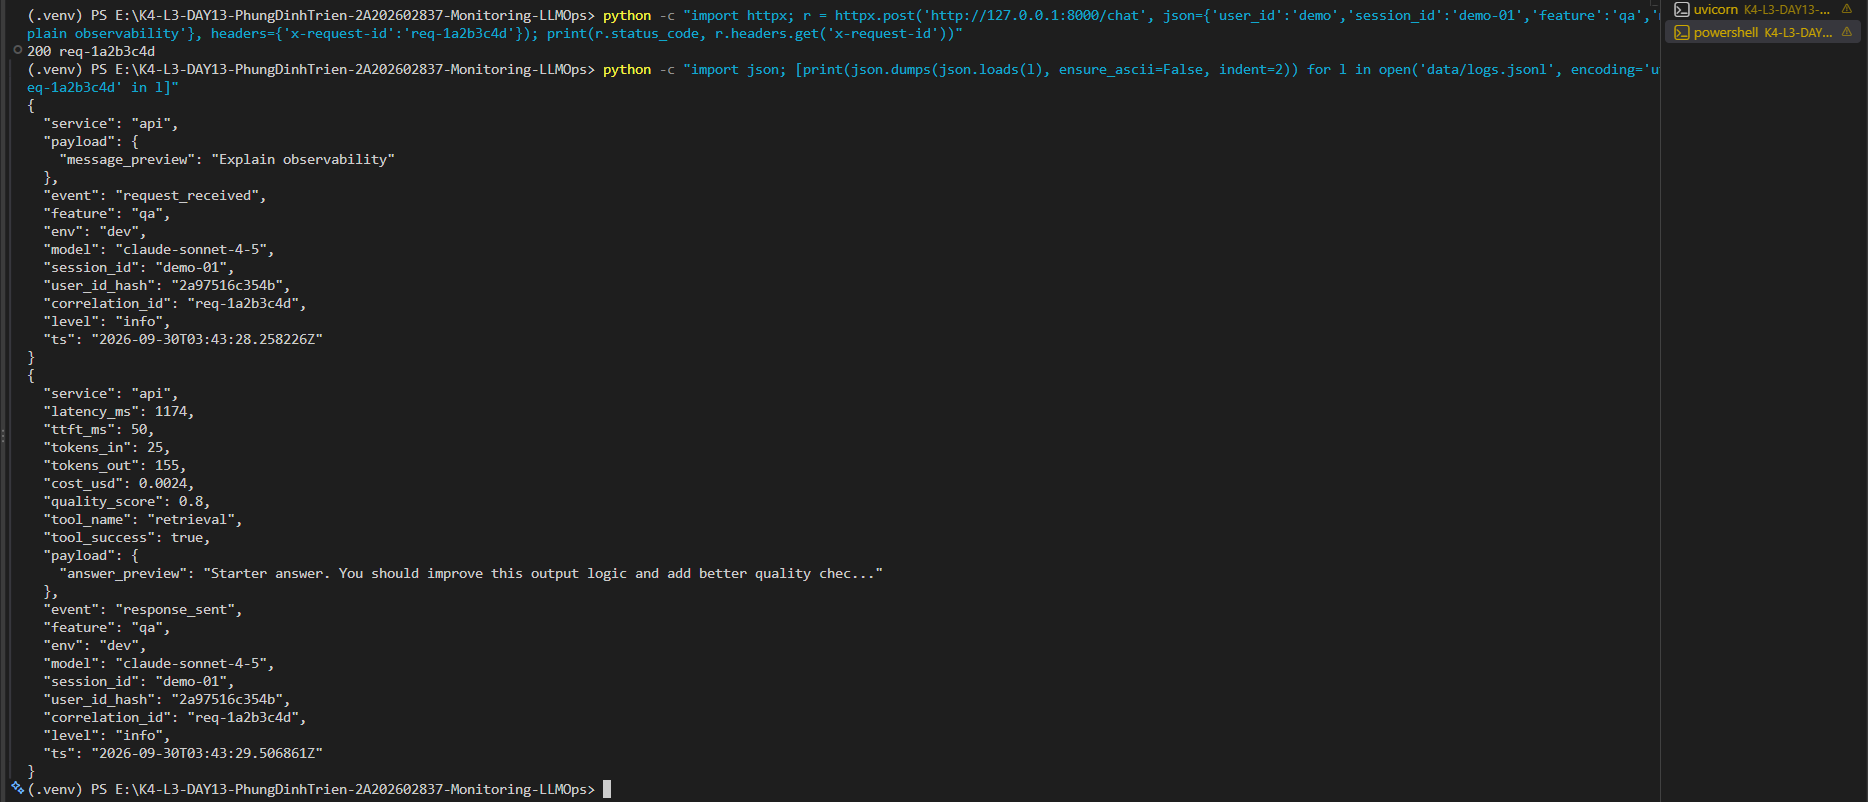
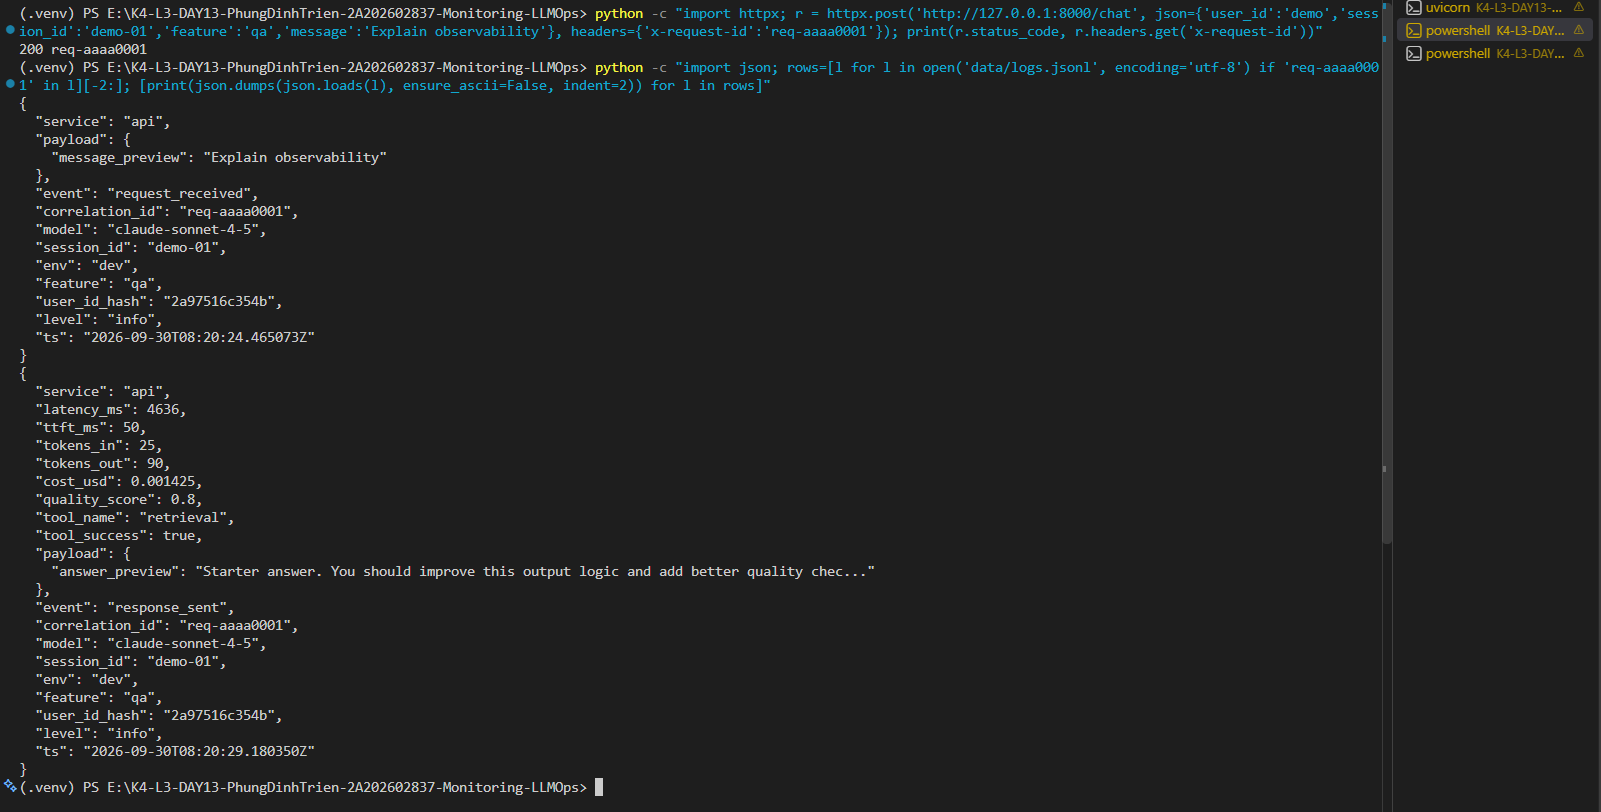
CP2: tracing, prompt versioning, dashboard, SLO and alerts

Changed region(s): [[0.0, 0.0, 0.9994, 0.9975]]

diff --git a/dashboard/app.py b/dashboard/app.py
@@ -1,0 +1,172 @@
+"""Dashboard 6 panel doc tu data/logs.jsonl theo config/dashboard.yaml.
+
+Chay (o thu muc goc repo, da activate venv):
+    pip install streamlit altair pandas pyyaml
+    streamlit run dashboard/app.py
+"""
+import json
+from datetime import datetime, timedelta, timezone
+from pathlib import Path
+
+import altair as alt
+import pandas as pd
+import streamlit as st
+import yaml
+
+ROOT = Path(__file__).resolve().parent.parent
+CFG = yaml.safe_load((ROOT / "config" / "dashboard.yaml").read_text(encoding="utf-8"))["dashboard"]
+PANELS = {p["id"]: p for p in CFG["panels"]}
+RANGE_MIN = CFG["time_range_minutes"]
+REFRESH = CFG["refresh_seconds"]
+
+st.set_page_config(page_title=CFG["title"], layout="wide")
+st.title(CFG["title"])
+anchor = st.sidebar.checkbox("Lay moc thoi gian theo log moi nhat (thay vi gio hien tai)", value=False)
+
+
+def load():
+    rows = []
+    path = ROOT / "data" / "logs.jsonl"
+    if path.exists():
+        for line in path.read_text(encoding="utf-8").splitlines():
+            try:
+                rows.append(json.loads(line))
+            except json.JSONDecodeError:
+                pass
+    df = pd.DataFrame(rows)
+    if df.empty:
+        return df
+    df["ts"] = pd.to_datetime(df["ts"], utc=True, format="ISO8601")
+    return df
+
+
+def window(df):
+    end = df["ts"].max() if anchor else pd.Timestamp.now(tz="UTC")
+    start = end - timedelta(minutes=RANGE_MIN)
+    return df[(df["ts"] >= start) & (df["ts"] <= end)], start, end
+
+
+def per_minute(s, how, start, end):
+    idx = pd.date_range(start.floor("min"), end.floor("min"), freq="1min")
+    r = s.resample("1min")
+    out = getattr(r, how)()
+    return out.reindex(idx)
+
+
+def chart(data, title, unit, thr, thr_label):
+    """data: DataFrame index=time, columns=series. thr: gia tri threshold."""
+    data = data.copy()
+    data.index = data.index.tz_convert(None)
+    data.index.name = "time"
+    d = data.reset_index().melt("time", var_name="series", value_name="value")
+    line = alt.Chart(d).mark_line(point=True).encode(
+        x=alt.X("time:T", title="Time (UTC)"),
+        y=alt.Y("value:Q", title=unit),
+        color="series:N",
+    )
+    rule = alt.Chart(pd.DataFrame({"y": [thr]})).mark_rule(color="red", strokeDash=[6, 4]).encode(y="y:Q")
+    label = alt.Chart(pd.DataFrame({"y": [thr], "t": [thr_label]})).mark_text(
+        align="left", dx=4, dy=-6, color="red"
+    ).encode(y="y:Q", text="t:N", x=alt.value(4))
+    st.altair_chart((line + rule + label).properties(height=260), width="stretch")
+
+
+def head(p):
+    t = p["threshold"]
+    st.subheader(f'{p["title"]}  ({p["unit"]})')
+    st.caption(
+        f'time range {RANGE_MIN} phut | refresh {REFRESH}s | '
+        f'threshold: {t["aggregation"]} {t["operator"]} {t["value"]}'
+    )
+
+
+def status(ok):
+    return "OK" if ok else "VUOT THRESHOLD"
+
+
+@st.fragment(run_every=REFRESH)
+def render():
+    df = load()
+    if df.empty or "ts" not in df:
+        st.warning("Chua co du lieu trong data/logs.jsonl. Chay scripts/load_test.py truoc.")
+        return
+    df, start, end = window(df)
+    if df.empty:
+        st.warning(f"Khong co log trong {RANGE_MIN} phut gan nhat. Bat 'Lay moc theo log moi nhat' o sidebar hoac chay load_test.")
+        return
+    st.caption(f"Khoang du lieu: {start:%H:%M} - {end:%H:%M} UTC | {len(df)} events")
+
+    resp = df[df["event"] == "response_sent"].set_index("ts")
+    recv = df[df["event"] == "request_received"].set_index("ts")
+    fail = df[df["event"] == "request_failed"].set_index("ts")
+
+    c1, c2, c3 = st.columns(3)
+    # 1. Latency
+    with c1:
+        p = PANELS["latency"]; head(p)
+        if not resp.empty:
+            q = resp["latency_ms"].quantile([.5, .95, .99])
+            ttft95 = resp["ttft_ms"].quantile(.95)
+            m = st.columns(4)
+            m[0].metric("P50", f"{q[.5]:.0f}"); m[1].metric("P95", f"{q[.95]:.0f}")
+            m[2].metric("P99", f"{q[.99]:.0f}"); m[3].metric("TTFT P95", f"{ttft95:.0f}")
+            st.write(status(q[.95] <= p["threshold"]["value"]))
+            g = pd.DataFrame({
+                "P50": resp["latency_ms"].resample("1min").quantile(.5),
+                "P95": resp["latency_ms"].resample("1min").quantile(.95),
+                "P99": resp["latency_ms"].resample("1min").quantile(.99),
+                "TTFT P95": resp["ttft_ms"].resample("1min").quantile(.95),
+            })
+            chart(g, p["title"], "ms", p["threshold"]["value"], "P95 <= 3000 ms")
+    # 2. Traffic
+    with c2:
+        p = PANELS["traffic"]; head(p)
+        t = per_minute(recv["event"], "count", start, end).fillna(0)
+        rate = len(recv) / RANGE_MIN if not anchor else len(recv) / max((end - start).total_seconds() / 60, 1)
+        st.metric("Requests", len(recv)); st.write(status(rate >= p["threshold"]["value"]) + f" (rate {rate:.2f}/phut)")
+        chart(pd.DataFrame({"requests/min": t}), p["title"], "requests_per_minute", p["threshold"]["value"], "rate >= 1/min")
+    # 3. Errors
+    with c3:
+        p = PANELS["errors"]; head(p)
+        err_pct = len(fail) / len(recv) * 100 if len(recv) else 0
+        ts_ok = resp["tool_success"].dropna() if "tool_success" in resp else pd.Series(dtype=bool)
+        ret_pct = (ts_ok == True).mean() * 100 if len(ts_ok) else 100.0  # noqa: E712
+        m = st.columns(2)
+        m[0].metric("Error rate %", f"{err_pct:.1f}"); m[1].metric("Retrieval success %", f"{ret_pct:.1f}")
+        st.write(status(err_pct <= p["threshold"]["value"]))
+        f_min = per_minute(fail["event"], "count", start, end).fillna(0) if not fail.empty else per_minute(recv["event"], "count", start, end).fillna(0) * 0
+        r_min = per_minute(recv["event"], "count", start, end).fillna(0)
+        rate_min = (f_min.astype(float) / r_min.astype(float).where(r_min > 0) * 100).fillna(0)
+        chart(pd.DataFrame({"error rate %": rate_min}), p["title"], "percent", p["threshold"]["value"], "error <= 2 %")
+        if not fail.empty and "error_type" in fail:
+            st.bar_chart(fail["error_type"].value_counts())
+
+    c4, c5, c6 = st.columns(3)
+    # 4. Cost
+    with c4:
+        p = PANELS["cost"]; head(p)
+        total = resp["cost_usd"].sum() if not resp.empty else 0
+        st.metric("Total cost (USD)", f"{total:.4f}"); st.write(status(total <= p["threshold"]["value"]))
+        cum = per_minute(resp["cost_usd"], "sum", start, end).fillna(0).cumsum()
+        chart(pd.DataFrame({"cumulative cost": cum}), p["title"], "usd", p["threshold"]["value"], "total <= 2.5 USD")
+    # 5. Tokens
+    with c5:
+        p = PANELS["tokens"]; head(p)
+        ti, to = resp["tokens_in"].sum(), resp["tokens_out"].sum()
+        m = st.columns(2); m[0].metric("Tokens in", int(ti)); m[1].metric("Tokens out", int(to))
+        st.write(status(max(ti, to) <= p["threshold"]["value"]))
+        g = pd.DataFrame({
+            "tokens_in": per_minute(resp["tokens_in"], "sum", start, end).fillna(0).cumsum(),
+            "tokens_out": per_minute(resp["tokens_out"], "sum", start, end).fillna(0).cumsum(),
+        })
+        chart(g, p["title"], "tokens", p["threshold"]["value"], "sum <= 50000")
+    # 6. Quality
+    with c6:
+        p = PANELS["quality"]; head(p)
+        mean = resp["quality_score"].mean() if not resp.empty else 0
+        st.metric("Mean quality", f"{mean:.2f}"); st.write(status(mean >= p["threshold"]["value"]))
+        qm = resp["quality_score"].resample("1min").mean()
+        chart(pd.DataFrame({"quality": qm}), p["title"], "score_0_to_1", p["threshold"]["value"], "mean >= 0.75")
+
+
+render()

diff --git a/submission/REPORT.md b/submission/REPORT.md
@@ -37,13 +37,13 @@
 
 | Nội dung | Baseline | Kết quả cuối | Nhận xét |
 |---|---|---|---|
-| `validate_logs.py` | 30/100 (21 bản ghi, 20 thiếu trường bắt buộc, 0 correlation ID) | | |
-| `validate_dashboard.py` | (chạy rồi điền) | | |
-| `pytest` | 22 passed | | |
-| Số traces hợp lệ | 10 (mới có span gốc `lab-agent-run`) | | |
-| Số PII leak | 0 | | |
-| Latency P95 / TTFT P95 | (điền sau khi tính) | | |
-| Retrieval success rate | (điền sau khi tính) | | |
+| `validate_logs.py` | 30/100 (21 bản ghi, 20 thiếu trường bắt buộc, 0 correlation ID) | 100/100 (10 correlation ID, 0 thiếu trường, 0 PII leak) | Đạt sau khi thêm correlation ID, enrichment và bật `scrub_event` |
+| `validate_dashboard.py` | Chưa chạy (chưa có dashboard) | 6/6 panel hợp lệ | Dashboard Streamlit đủ 6 panel, có threshold |
+| `pytest` | 22 passed | 26 passed | Thêm 4 test PII (CCCD, thẻ, hỗn hợp, văn bản thường) |
+| Số traces hợp lệ | 10 (mới có span gốc `lab-agent-run`) | Hơn 10 trace có cây span `retrieval` + `generation` | Ảnh 06, 07 |
+| Số PII leak | 0 | 0 | Log chỉ còn nhãn `[REDACTED_*]` |
+| Latency P95 / TTFT P95 | Chưa đo (chưa có dashboard) | P95 1473 ms / TTFT P95 50 ms | Dưới ngưỡng SLO 3000 ms (số từ dashboard, ảnh 11) |
+| Retrieval success rate | Chưa đo (chưa có dashboard) | 100% | Trên guardrail 90% |
 
 ## 4. Logging và PII
 
@@ -56,17 +56,17 @@
 
 - **Cách xác nhận traces do chính tôi tạo trong project cá nhân:** Key trong `.env` thuộc project `day13-k4-l3b-2A202602837`, ảnh 06 hiển thị tên project, khoảng thời gian và hơn 10 trace `day13-agent-request` sinh ra từ `load_test.py` và các request tôi tự gửi. Trace tôi đặt ID riêng (`req-aaaa0001`) tìm thấy đúng trong project này.
 - **Cấu trúc root/retrieval/generation observations:** Root `lab-agent-run` (loại agent, trace name `day13-agent-request`) có hai observation con: `retrieval` (loại retriever, gắn `@observe` trên `retrieve()`) và `generation` (loại generation, gắn `@observe` trên `FakeLLM.generate()`). `generation` ghi `model`, `usage` (token vào/ra), `cost` và liên kết prompt version qua `propagate_attributes(prompt=...)`. Tất cả đặt `capture_input=False` và `capture_output=False` để không lưu nội dung câu hỏi (có thể chứa PII).
-- **Cách nối trace với log:** `correlation_id` do middleware sinh được ghi vào metadata của trace (cùng với `feature`, `model`) và cũng có trong mọi dòng structured log. Ví dụ `req-aaaa0001` khớp giữa ảnh 04 và ảnh 08a.
+- **Cách nối trace với log:** `correlation_id` do middleware sinh được ghi vào metadata của trace (cùng với `feature`, `model`) và cũng có trong mọi dòng structured log. Ví dụ `req-aaaa0001` khớp giữa ảnh 04 và ảnh 08a (do đặt lại cùng ID nhiều lần nên các trace được phân biệt bằng trace ID và giờ).
 - **Prompt name:** `day13-chat` (Text prompt, biến `{{feature}}`, `{{docs}}`, `{{message}}`).
 - **Version/label baseline:** v1, nhãn `baseline` và `production`.
 - **Version/label candidate:** v2 (thêm dòng "Answer briefly." ở cuối), nhãn `candidate` (nhãn `latest` do Langfuse tự gắn).
-- **Trace ID của mỗi version:** v1: `6d1ffde5b412273958dad2422a98a42a` (`prompt_version=1`, `prompt_label=baseline`). v2: (điền trace ID sau khi chạy với label `candidate`, `prompt_version=2`).
-- **Cách promote và rollback `production`:** Không sửa code, chỉ dời nhãn `production` trên giao diện Langfuse (Prompts → `day13-chat`). Promote: dời `production` từ v1 sang v2, đặt `LANGFUSE_PROMPT_LABEL=production`, restart API (app cache prompt khoảng 60 giây), gửi một request để kiểm tra `prompt_version=2` (ảnh 10a). Rollback: dời `production` về v1, restart API, gửi request kiểm tra `prompt_version=1` (ảnh 10b). Ảnh 09 thể hiện v1 (`baseline`, `production`) và v2 (`candidate`).
+- **Trace ID của mỗi version:** v1: `18dda823f619f3557615ca84a512d82c` (prompt_version=1, label production, correlation_id req-aaaa0001). v2: `250180fba949fa50673d2c88ad9442a9` (prompt_version=2, label candidate, correlation_id req-bbbb0002).
+- **Cách promote và rollback `production`:** Không sửa code, chỉ dời nhãn `production` trên giao diện Langfuse (Prompts → `day13-chat`). Promote: dời `production` từ v1 sang v2 (ảnh 10a). Rollback: dời `production` về v1 (ảnh 10b). Vì app cache prompt khoảng 60 giây, sau mỗi lần đổi nhãn phải restart API rồi mới gửi request. Ảnh 09 thể hiện v1 (`baseline`, `production`) và v2 (`candidate`).
 
 ## 6. Dashboard, SLO và alerts
 
 - **Dashboard và sáu panel:** Dashboard Streamlit đọc `data/logs.jsonl` theo `config/dashboard.yaml`, gồm 6 panel: Latency (P50/P95/P99, TTFT P95, ms), Traffic (requests/phút), Errors (error rate % và retrieval success %), Cost (USD), Tokens (vào/ra), Quality (điểm 0 đến 1). Mỗi panel có đơn vị, time range 60 phút, refresh 30 giây và đường threshold (ảnh 11).
-- **SLO và lý do chọn:** 99.5% request hoàn thành thành công trong ≤ 3000 ms, cửa sổ 28 ngày. Baseline của tôi không có request lỗi, request thường mất 400-600 ms và chậm nhất khoảng 2.7 s (request khởi động), nên mục tiêu này đạt được nhưng vẫn phát hiện được sự cố retrieval chậm (+2.5 s).
+- **SLO và lý do chọn:** 99.5% request hoàn thành thành công trong ≤ 3000 ms, cửa sổ 28 ngày. Baseline của tôi không có request lỗi, request thường mất 400-600 ms; chỉ request đầu tiên sau khi restart API chậm hơn (2.7 đến 4.6 s) vì phải tải prompt. Những request này tính vào error budget, nên mục tiêu 99.5% vẫn đạt được nhưng có ý nghĩa, và sự cố retrieval chậm (+2.5 s) vẫn phát hiện được.
 - **Cách tính error budget:** SLO 99.5% trong 28 ngày nghĩa là error budget 0.5%. Nếu workload có 10,000 request thì tối đa 50 request được phép lỗi hoặc chậm hơn 3000 ms.
 - **Ba alert và runbook tương ứng:** `HighLatencyP95` (P95 > 2000 ms trong 5 phút, cảnh báo sớm trước SLO), `HighErrorRate` (error rate > 2% hoặc retrieval success < 90% trong 5 phút), `HighCostPerRequest` (chi phí trung bình > 0.005 USD mỗi request trong 5 phút). Runbook nằm ở `docs/alerts.md` (Alert 1, 2, 3), theo chuỗi Metrics → Logs → Traces.
 
